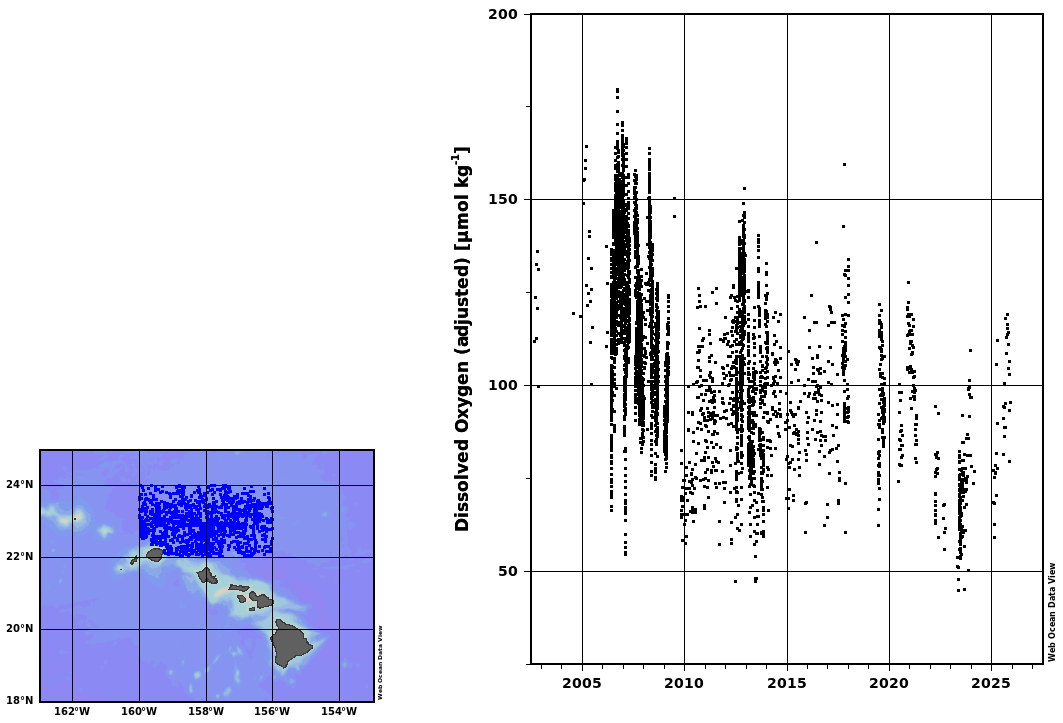
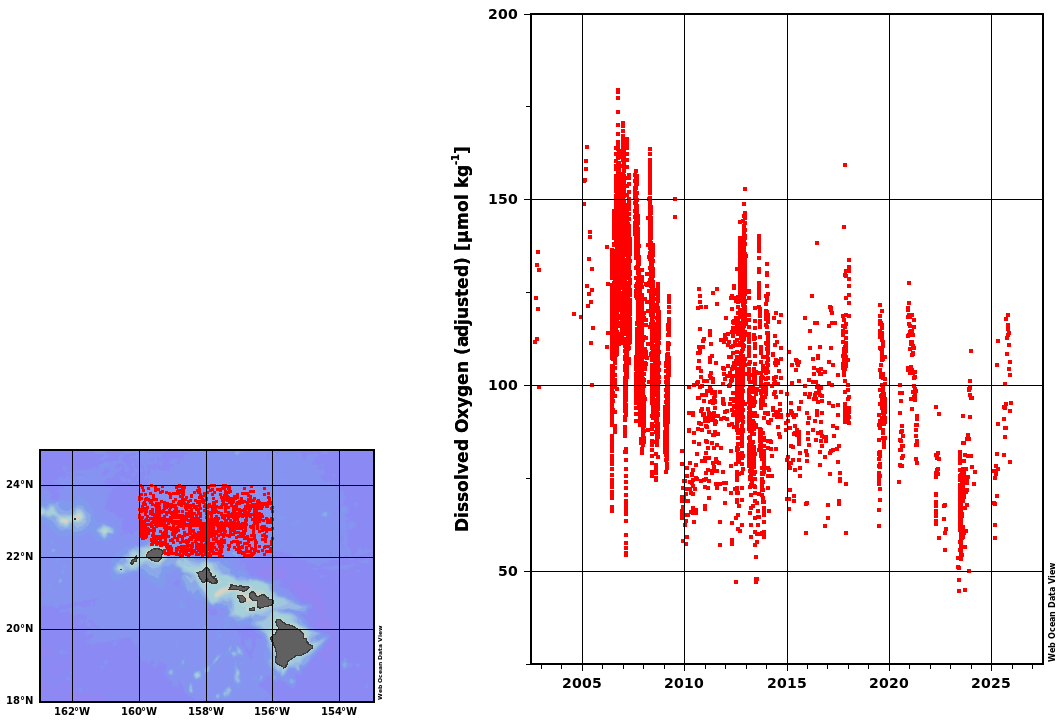
update readme

diff --git a/README.md b/README.md
@@ -59,8 +59,13 @@ Filter->Customize*. On the dialog select *Range*. As Variable choose
 *2. Pressure (adjusted) [decibar]* and fill the Acceptable Range from
 *480* to *520*. Click *Apply*. 
 
-## Full range
+## Full Range and Color
 
 Right click into the Scatter Window and choose *Full Range->All*.
+Right click into the Scatter Window and open the *Properties*. Goto
+*Display Style* click into the *Symbol color* box and choose red color
+number *12*. Change the *Symbol size to 12*. Right click into the map
+choose *Properties->Display Style* and select color *12* as well.
 
 ![alt text](./step4.png "Filter Depth") 
+
